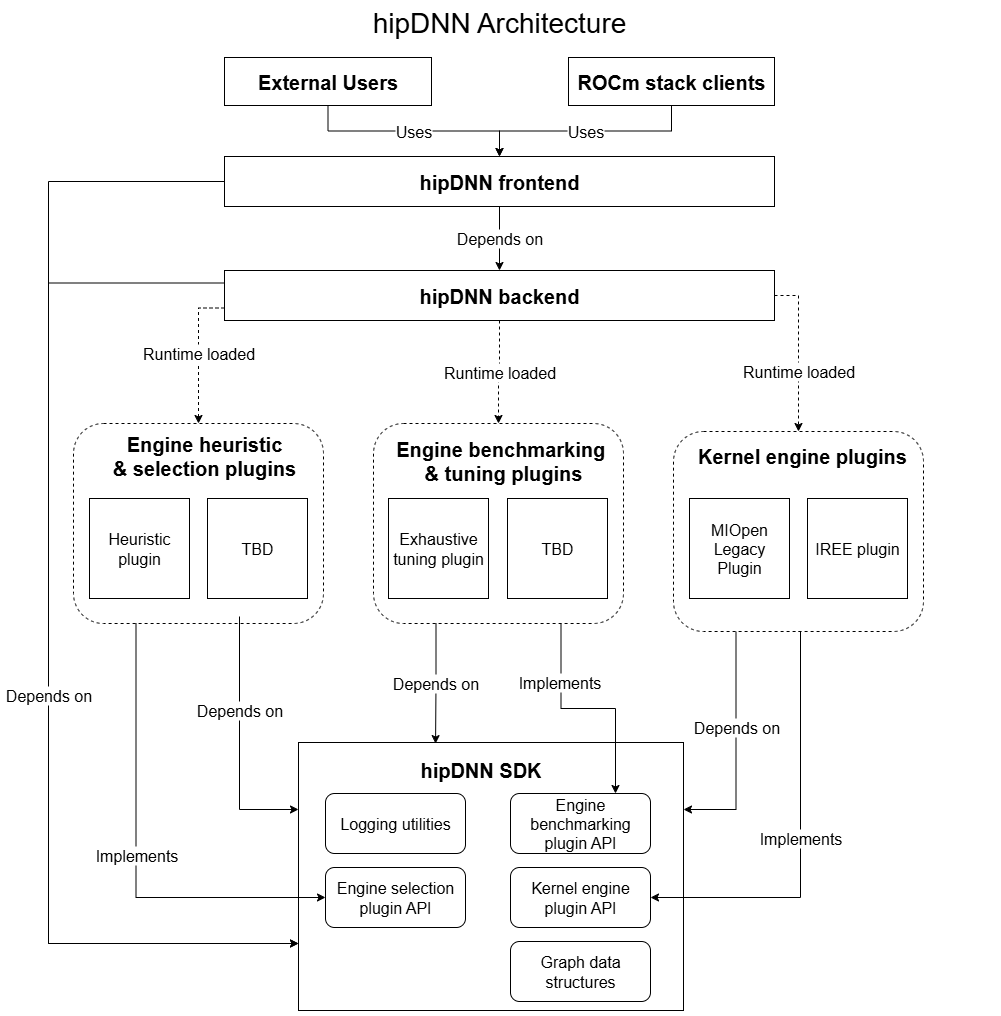
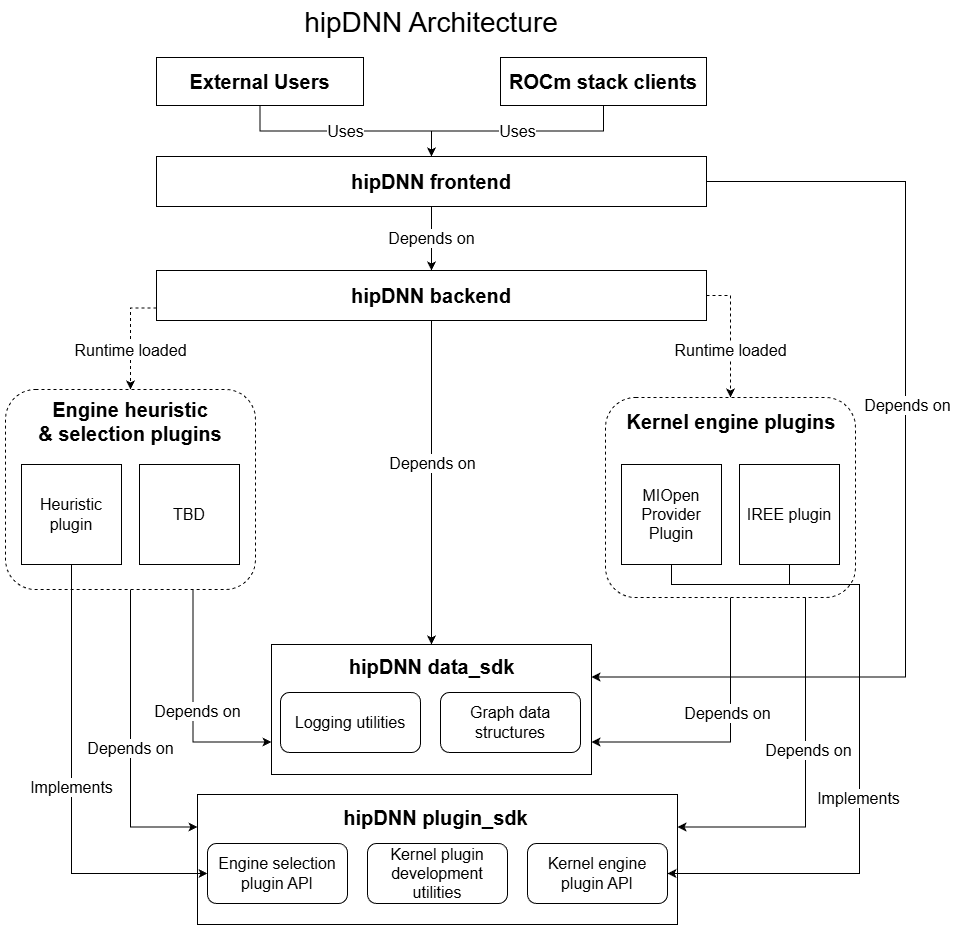
[hipDNN] Update architecture after SDK changes and fix broken doc links (#3764)
## Motivation

Architecture diagram was out of date, and missing the SDK changes.
Fixing broken image links in the RFC doc.

Pull request: [hipDNN] Update architecture after SDK changes and fix broken doc links
## Motivation

Architecture diagram was out of date, and missing the SDK changes.
Fixing broken image links in the RFC doc.

diff --git a/projects/hipdnn/docs/Design.md b/projects/hipdnn/docs/Design.md
@@ -8,14 +8,27 @@ hipDNN is a graph-based deep learning library that enables multi-operation fusio
 ## Core Design Principles
 
 - **Graph-based API**: Operations are expressed as computational graphs rather than individual function calls, enabling optimization opportunities
-- **Plugin Architecture**: Backend engines, heuristics, and benchmarking are implemented as plugins, allowing extensibility without modifying the core library
+- **Plugin Architecture**: Backend kernel engines, and heuristics are implemented through plugins, allowing extensibility without modifying the core library
 - **Performance through Fusion**: Multiple operations can be fused into single kernels for better performance
-- **Engine Selection**: Heuristics and benchmarking will be implemented as plugins, allowing extensibility without modifying the core library
+- **Engine Selection**: Heuristics will be implemented as plugins, allowing extensibility without modifying the core library, and benchmarking will be implemented as an extensible frontend API allowing customized engine selection logic
 - **Industry Standard API**: Provides a familiar interface that matches established deep learning library conventions
+
+## Memory Management
+
+hipDNN adopts a caller-owned memory model:
+
+1.  **Tensor Data**: The user is responsible for allocating and managing device memory for input and output tensors. These pointers are passed to the backend via the **Variant Pack**.
+2.  **Workspace Memory**: Some graph executions require temporary scratch memory. The Backend calculates the required size during the Execution Plan phase (`HIPDNN_ATTR_EXECUTION_PLAN_WORKSPACE_SIZE`). The user must allocate this memory and pass the pointer during execution.
+3.  **Host Memory**: API descriptors and graph structures manage their own host resources. Backend API users must explicitly destroy descriptors using `hipdnnBackendDestroyDescriptor`.
+
+## Thread Safety
+
+- **Library Handle (`hipdnnHandle_t`)**: This handle is **not thread-safe**. Users should create a unique handle for each thread or use external synchronization locks when sharing a handle across threads.
+- **Descriptors**: Read-only access to finalized descriptors is thread-safe. Modifying a descriptor while it is being used in another thread is undefined behavior.
 
 ## High-Level Architecture
 
-hipDNN has a plugin-based architecture in order to allow contributors and users to extend hipDNN without modifying the core library. Currently, hipDNN has support for engine plugins which provide the kernels to solve graphs. In the future hipDNN will support both heuristic and benchmarking plugins to allow for improved engine selection. Benchmarking plugins will provide exhaustive tuning capabilities, but will require collecting samples from existing engines to do so. Heuristic plugins will provide better default engine selection given a graph, and shouldn't require collecting samples from existing engines to do so.
+hipDNN has a plugin-based architecture in order to allow contributors and users to extend hipDNN without modifying the core library. Currently, hipDNN has support for engine plugins which provide the kernels to solve graphs. In the future hipDNN will support heuristic plugins to allow for improved automatic engine selection. Benchmarking with an extensible selection API will be added to the frontend to provide exhaustive tuning capabilities, but will require collecting samples from applicable engines to do so. Heuristic plugins will provide better default engine selection given a graph, and shouldn't require collecting samples from existing engines to do so.
 
 ![hipDNN Architecture](./images/hipDNN_Architecture.png)
 
@@ -26,11 +39,17 @@ hipDNN has a plugin-based architecture in order to allow contributors and users 
 
 **SDKs**: Header-only libraries that provide shared utilities and interfaces. hipDNN provides three SDKs: Data SDK (graph schemas and data structures), Plugin SDK (plugin API and utilities), and Test SDK (testing utilities and CPU reference implementations).
 
-**MIOpen Legacy Plugin**: A plugin that wraps MIOpen and provides access to the existing API through hipDNN. In the future, the MIOpen Legacy Plugin will be its own separate project from hipDNN.
-
-**Other Plugins**: Plugins will be added over time to provide additional operational support, or performance improvements. Plugins should be external projects to hipDNN.
+**Plugins**: Plugins will be added over time to provide additional operational support, or performance improvements. Plugins should be external projects to hipDNN.
 
 ## Component Details
+
+### Error Handling Strategy
+
+hipDNN uses a layered error handling approach designed to be robust across C/C++ boundaries:
+
+1.  **Plugins**: Plugin entry points return `hipdnnPluginStatus_t` codes. Internal exceptions are caught at the plugin boundary and converted to status codes. Error strings are stored in thread-local storage via `PluginLastErrorManager`.
+2.  **Backend (C API)**: All public API functions return `hipdnnStatus_t` codes. The backend catches any internal C++ exceptions, converts them to the appropriate status code, and stores the exception message. Users can retrieve descriptive error messages using `hipdnnGetLastErrorString`.
+3.  **Frontend (C++ API)**: The C++ frontend checks `hipdnnStatus_t` codes from the backend. On failure, it retrieves the detailed error message via `hipdnnGetLastErrorString` and returns an `Error` object containing the error code and description. The frontend utilizes **value-based error handling** rather than throwing exceptions.
 
 ### SDKs
 
@@ -246,7 +265,7 @@ hipdnnEnginePluginExecuteOpGraph(handle, context, workspace, buffers, num_buffer
 ##### 1. Static Kernel Engines
 - Provide pre-compiled kernels for specific operations
 - Narrow support: Only handle specific configurations
-- Example: MIOpen Legacy Plugin
+- Example: MIOpen Provider Plugin
 - **Advantages:**
   - Highly optimized for supported cases
   - Predictable performance

diff --git a/projects/hipdnn/docs/PluginDevelopment.md b/projects/hipdnn/docs/PluginDevelopment.md
@@ -12,7 +12,7 @@
   - [Key Files Reference](#key-files-reference)
 - [Plugin Architecture](#plugin-architecture)
 - [Plugin Loading](#plugin-loading)
-- [Example: MIOpen Legacy Plugin](#example-miopen-legacy-plugin)
+- [Example: MIOpen Provider Plugin](#example-miopen-provider-plugin)
 - [Troubleshooting](#troubleshooting)
 
 ---
@@ -90,7 +90,7 @@ Before creating a plugin, ensure you have **built and installed hipDNN**. Plugin
 1. **Create Plugin Structure**
    - Create a new project/repository for your plugin
    - Implement the plugin interface defined in [`plugin_sdk/include/hipdnn_plugin_sdk/EnginePluginApi.h`](../plugin_sdk/include/hipdnn_plugin_sdk/EnginePluginApi.h)
-   - See [MIOpen Legacy Plugin](../../../dnn-providers/miopen-provider/) as a reference implementation.
+   - See [MIOpen Provider Plugin](../../../dnn-providers/miopen-provider/) as a reference implementation.
 
 2. **Implement Plugin API Functions**
 
@@ -399,9 +399,9 @@ For a comprehensive example of an integration test, see: [`dnn-providers/miopen-
 
 Moreover, see our [general testing requirements](./testing/TestingStrategy.md#general-testing-requirements).
 
-## Example: [MIOpen Legacy Plugin](../../../dnn-providers/miopen-provider/)
+## Example: [MIOpen Provider Plugin](../../../dnn-providers/miopen-provider/)
 
-The MIOpen Legacy Plugin is a complete example of a kernel engine plugin. It demonstrates how a plugin integrates with hipDNN and delegates execution to a backend. Furthermore, it incorporates the recommended structure and best practices for kernel engine plugins.
+The MIOpen Provider Plugin is a complete example of a kernel engine plugin. It demonstrates how a plugin integrates with hipDNN and delegates execution to a backend. Furthermore, it incorporates the recommended structure and best practices for kernel engine plugins.
 
 At a high level, it:
 - Initializes and manages the GPU context using MIOpen handles

diff --git a/dnn-providers/miopen-provider/docs/OperationSupport.md b/dnn-providers/miopen-provider/docs/OperationSupport.md
@@ -1,6 +1,6 @@
-# MIOpen Legacy Plugin - Operation Support
+# MIOpen Provider Plugin - Operation Support
 
-This document provides detailed information about the operations supported by the MIOpen Legacy Plugin for hipDNN.
+This document provides detailed information about the operations supported by the MIOpen Provider Plugin for hipDNN.
 
 For general information about hipDNN's operation support, please see the [hipDNN Operation Support](../../../docs/OperationSupport.md) documentation.
 

diff --git a/projects/hipdnn/docs/Environment.md b/projects/hipdnn/docs/Environment.md
@@ -54,9 +54,9 @@ The frontend and plugins can be configured to use the same logging destination a
 ### MIOpen Plugin Logging
 
 > [!TIP]
-> 💡 When using the MIOpen legacy plugin, you can use MIOpen-specific environment variables to control the underlying library's logging behavior.
+> 💡 When using the MIOpen Provider Plugin, you can use MIOpen-specific environment variables to control the underlying library's logging behavior.
 
-For more details about MIOpen logging, see the latest [MIOpen Debug and Logging documentation](https://rocm.docs.amd.com/projects/MIOpen/en/develop/how-to/debug-log.html). All MIOpen environment variables remain compatible with hipDNN's MIOpen legacy plugin.
+For more details about MIOpen logging, see the latest [MIOpen Debug and Logging documentation](https://rocm.docs.amd.com/projects/MIOpen/en/develop/how-to/debug-log.html). All MIOpen environment variables remain compatible with hipDNN's MIOpen Provider Plugin.
 
 ### Test Configuration
 

diff --git a/projects/hipdnn/docs/rfcs/0001_CpuGraphExecutorDesign.md b/projects/hipdnn/docs/rfcs/0001_CpuGraphExecutorDesign.md
@@ -132,7 +132,7 @@ Runtime Registration Process:
 ## Execution Flow
 
 The complete execution flow from graph input to results:
-![CPU Graph Executor Execution Flow](./images/hipdnn_cpu_graph_execution_flow.png)
+![CPU Graph Executor Execution Flow](../images/hipdnn_cpu_graph_execution_flow.png)
 
 ## Supported Operations
 
@@ -141,7 +141,7 @@ The CPU Reference Implementation supports a comprehensive set of deep learning o
 - **Convolution**: Forward pass, data gradients, and weight gradients
 - **Pointwise**: Unary and binary element-wise operations (activations, arithmetic)
 
-For a complete list of supported operations, datatypes, and layouts, please refer to the [CPU Reference Implementation Operation Support](./OperationSupport-ReferenceImpl.md) document.
+For a complete list of supported operations, datatypes, and layouts, please refer to the [CPU Reference Implementation Operation Support](../OperationSupport-ReferenceImpl.md) document.
 
 ## Extension Guidelines
 

diff --git a/projects/hipdnn/docs/rfcs/0002_PluginSdkDesign.md b/projects/hipdnn/docs/rfcs/0002_PluginSdkDesign.md
@@ -57,9 +57,9 @@ Due to this, the backend maintains a lifecycle for two types of objects (with co
 Shared library files aren't reloaded by `dlopen` calls from different threads, which means that multiple threads can be accessing the proposed objects below from multiple threads at the same time.  Given that, plugin containers, engine managers, and plan builders should either be stateless or use thread-safe objects with locking around any stored state.
 
 
-### MIOpen Plugin Architecture
+### MIOpen Provider Plugin Architecture
 
-The MIOpen Legacy Plugin serves as the kernel provider. It employs a modular C++ architecture, largely decoupled from the API layer.
+The MIOpen Provider Plugin serves as the kernel provider. It employs a modular C++ architecture, largely decoupled from the API layer.
 
 *   **Dependency Injection Container (`MiopenContainer`):**
     This is the root object that manages the lifecycle and dependencies of all other components. It initializes the `EngineManager` and ensures that all necessary services are correctly injected.

diff --git a/projects/hipdnn/CONTRIBUTING.md b/projects/hipdnn/CONTRIBUTING.md
@@ -84,9 +84,6 @@ When contributing to hipDNN, please keep these architectural principles in mind:
   - Plugins can have their own dependencies as needed
   - See [Plugin Development](./docs/PluginDevelopment.md) for further guidance
 
-> [!NOTE]
-> 📝 The MIOpen Legacy Plugin is currently an exception and will be migrated to its own repository in the future.
-
 ## Development Workflow
 
 ### 1. Fork and Clone

diff --git a/dnn-providers/miopen-provider/README.md b/dnn-providers/miopen-provider/README.md
@@ -1,4 +1,4 @@
-# MIOpen Legacy Plugin
+# MIOpen Provider Plugin
 A plugin wrapping MIOpen in order to provide engines to solve some hipDNN graphs.
 
 ## Building

diff --git a/projects/hipdnn/docs/OperationSupport.md b/projects/hipdnn/docs/OperationSupport.md
@@ -15,7 +15,7 @@ hipDNN operations are implemented through plugins. Each plugin provides its own 
 
 ### Available Plugins
 
-- **[MIOpen Legacy Plugin](../../../dnn-providers/miopen-provider/docs/OperationSupport.md)** - Integration with AMD's MIOpen library for GPU-accelerated deep learning operations
+- **[MIOpen Provider Plugin](../../../dnn-providers/miopen-provider/docs/OperationSupport.md)** - Integration with AMD's MIOpen library for GPU-accelerated deep learning operations
   - Convolution operations (Forward, Dgrad, Wgrad)
   - Batchnorm operations (Training, Backward, Inference)
   - Fused operation graphs